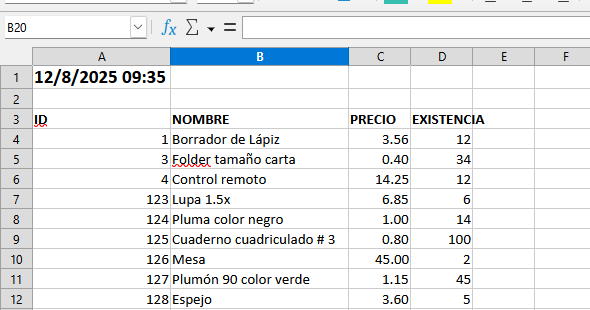
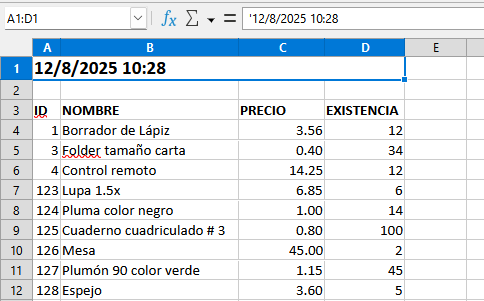
Actualización de exportación a XLSX

diff --git a/11_closedxml_report/index.md b/11_closedxml_report/index.md
@@ -57,7 +57,7 @@ public FileResult ExportarXLSX()
         ws.Range("A1").Style.Font.Bold = true;
         ws.Range("A1").Style.Font.FontSize = 14;
         ws.Range("A1").Style.Alignment.Horizontal = XLAlignmentHorizontalValues.Left;
-        ws.Range("A1:B1").Merge();
+        ws.Range("A1:D1").Merge();
         ws.Range("A3").Value = "ID";
         ws.Range("A3").Style.Font.Bold = true;
         ws.Range("B3").Value = "NOMBRE";
@@ -79,6 +79,8 @@ public FileResult ExportarXLSX()
         }
         ws.Column(1).AdjustToContents();
         ws.Column(2).AdjustToContents();
+        ws.Column(3).AdjustToContents();
+        ws.Column(4).AdjustToContents();
         using (MemoryStream stream = new MemoryStream())
         {
             wb.SaveAs(stream);
